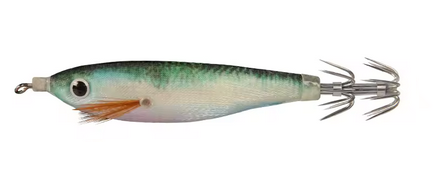
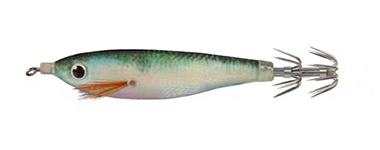
Update

diff --git a/menu/senuelos/dtd.html b/menu/senuelos/dtd.html
@@ -123,14 +123,14 @@
   <!-- GRID DE PRODUCTOS -->
   <h2 class="section-title">💱 Poteras Letoyo Similares a DTD Full Flash Glavoc</h2>
   <section class="grid-contenedor">
-      <div class="tarjeta"><a href="https://s.click.aliexpress.com/e/_Dn42Gjn"><img src="letoyo/img/poteras/letoyo-A.webp" alt="Poteras Letoyo BLACK"><h3>BLACK</h3></a></div>
-      <div class="tarjeta"><a href="https://s.click.aliexpress.com/e/_Dn42Gjn"><img src="letoyo/img/poteras/letoyo-B.webp" alt="Poteras Letoyo RED HEAD"><h3>RED HEAD</h3></a></div>
-      <div class="tarjeta"><a href="https://s.click.aliexpress.com/e/_Dn42Gjn"><img src="letoyo/img/poteras/letoyo-C.webp" alt="Poteras Letoyo GRAY"><h3>GRAY</h3></a></div>
-      <div class="tarjeta"><a href="https://s.click.aliexpress.com/e/_Dn42Gjn"><img src="letoyo/img/poteras/letoyo-D.webp" alt="Poteras Letoyo YELLOW"><h3>YELLOW</h3></a></div>
-      <div class="tarjeta"><a href="https://s.click.aliexpress.com/e/_Dn42Gjn"><img src="letoyo/img/poteras/letoyo-E.webp" alt="Poteras Letoyo RED"><h3>RED</h3></a></div>
-      <div class="tarjeta"><a href="https://s.click.aliexpress.com/e/_Dn42Gjn"><img src="letoyo/img/poteras/letoyo-F.webp" alt="Poteras Letoyo ORANGE"><h3>ORANGE</h3></a></div>
-      <div class="tarjeta"><a href="https://s.click.aliexpress.com/e/_Dn42Gjn"><img src="letoyo/img/poteras/letoyo-G.webp" alt="Poteras Letoyo GREEN"><h3>GREEN</h3></a></div>
-      <div class="tarjeta"><a href="https://s.click.aliexpress.com/e/_Dn42Gjn"><img src="letoyo/img/poteras/letoyo-H.webp" alt="Poteras Letoyo WHITE"><h3>WHITE</h3></a></div>
+      <div class="tarjeta"><a href="https://s.click.aliexpress.com/e/_Dn42Gjn"><img src="letoyo/img/poteras/letoyo-A.png" alt="Poteras Letoyo BLACK"><h3>BLACK</h3></a></div>
+      <div class="tarjeta"><a href="https://s.click.aliexpress.com/e/_Dn42Gjn"><img src="letoyo/img/poteras/letoyo-B.png" alt="Poteras Letoyo RED HEAD"><h3>RED HEAD</h3></a></div>
+      <div class="tarjeta"><a href="https://s.click.aliexpress.com/e/_Dn42Gjn"><img src="letoyo/img/poteras/letoyo-C.png" alt="Poteras Letoyo GRAY"><h3>GRAY</h3></a></div>
+      <div class="tarjeta"><a href="https://s.click.aliexpress.com/e/_Dn42Gjn"><img src="letoyo/img/poteras/letoyo-D.png" alt="Poteras Letoyo YELLOW"><h3>YELLOW</h3></a></div>
+      <div class="tarjeta"><a href="https://s.click.aliexpress.com/e/_Dn42Gjn"><img src="letoyo/img/poteras/letoyo-E.png" alt="Poteras Letoyo RED"><h3>RED</h3></a></div>
+      <div class="tarjeta"><a href="https://s.click.aliexpress.com/e/_Dn42Gjn"><img src="letoyo/img/poteras/letoyo-F.png" alt="Poteras Letoyo ORANGE"><h3>ORANGE</h3></a></div>
+      <div class="tarjeta"><a href="https://s.click.aliexpress.com/e/_Dn42Gjn"><img src="letoyo/img/poteras/letoyo-G.png" alt="Poteras Letoyo GREEN"><h3>GREEN</h3></a></div>
+      <div class="tarjeta"><a href="https://s.click.aliexpress.com/e/_Dn42Gjn"><img src="letoyo/img/poteras/letoyo-H.png" alt="Poteras Letoyo WHITE"><h3>WHITE</h3></a></div>
   </section>
 
   <!-- BOTONES DE COMPRA -->

diff --git a/menu/senuelos/letoyo.html b/menu/senuelos/letoyo.html
@@ -234,14 +234,14 @@
   <h2 class="section-title">Poteras</h2>
   <h4 align="center"> 💱Similares a DTD Full Flash Glavoc</h4>
   <section class="grid-contenedor">
-      <div class="tarjeta"><a href="https://s.click.aliexpress.com/e/_Dn42Gjn"><img src="letoyo/img/poteras/letoyo-A.webp" alt="Poteras Letoyo BLACK"><h3>BLACK</h3></a></div>
-      <div class="tarjeta"><a href="https://s.click.aliexpress.com/e/_Dn42Gjn"><img src="letoyo/img/poteras/letoyo-B.webp" alt="Poteras Letoyo RED HEAD"><h3>RED HEAD</h3></a></div>
-      <div class="tarjeta"><a href="https://s.click.aliexpress.com/e/_Dn42Gjn"><img src="letoyo/img/poteras/letoyo-C.webp" alt="Poteras Letoyo GRAY"><h3>GRAY</h3></a></div>
-      <div class="tarjeta"><a href="https://s.click.aliexpress.com/e/_Dn42Gjn"><img src="letoyo/img/poteras/letoyo-D.webp" alt="Poteras Letoyo YELLOW"><h3>YELLOW</h3></a></div>
-      <div class="tarjeta"><a href="https://s.click.aliexpress.com/e/_Dn42Gjn"><img src="letoyo/img/poteras/letoyo-E.webp" alt="Poteras Letoyo RED"><h3>RED</h3></a></div>
-      <div class="tarjeta"><a href="https://s.click.aliexpress.com/e/_Dn42Gjn"><img src="letoyo/img/poteras/letoyo-F.webp" alt="Poteras Letoyo ORANGE"><h3>ORANGE</h3></a></div>
-      <div class="tarjeta"><a href="https://s.click.aliexpress.com/e/_Dn42Gjn"><img src="letoyo/img/poteras/letoyo-G.webp" alt="Poteras Letoyo GREEN"><h3>GREEN</h3></a></div>
-      <div class="tarjeta"><a href="https://s.click.aliexpress.com/e/_Dn42Gjn"><img src="letoyo/img/poteras/letoyo-H.webp" alt="Poteras Letoyo WHITE"><h3>WHITE</h3></a></div>
+      <div class="tarjeta"><a href="https://s.click.aliexpress.com/e/_Dn42Gjn"><img src="letoyo/img/poteras/letoyo-A.png" alt="Poteras Letoyo BLACK"><h3>BLACK</h3></a></div>
+      <div class="tarjeta"><a href="https://s.click.aliexpress.com/e/_Dn42Gjn"><img src="letoyo/img/poteras/letoyo-B.png" alt="Poteras Letoyo RED HEAD"><h3>RED HEAD</h3></a></div>
+      <div class="tarjeta"><a href="https://s.click.aliexpress.com/e/_Dn42Gjn"><img src="letoyo/img/poteras/letoyo-C.png" alt="Poteras Letoyo GRAY"><h3>GRAY</h3></a></div>
+      <div class="tarjeta"><a href="https://s.click.aliexpress.com/e/_Dn42Gjn"><img src="letoyo/img/poteras/letoyo-D.png" alt="Poteras Letoyo YELLOW"><h3>YELLOW</h3></a></div>
+      <div class="tarjeta"><a href="https://s.click.aliexpress.com/e/_Dn42Gjn"><img src="letoyo/img/poteras/letoyo-E.png" alt="Poteras Letoyo RED"><h3>RED</h3></a></div>
+      <div class="tarjeta"><a href="https://s.click.aliexpress.com/e/_Dn42Gjn"><img src="letoyo/img/poteras/letoyo-F.png" alt="Poteras Letoyo ORANGE"><h3>ORANGE</h3></a></div>
+      <div class="tarjeta"><a href="https://s.click.aliexpress.com/e/_Dn42Gjn"><img src="letoyo/img/poteras/letoyo-G.png" alt="Poteras Letoyo GREEN"><h3>GREEN</h3></a></div>
+      <div class="tarjeta"><a href="https://s.click.aliexpress.com/e/_Dn42Gjn"><img src="letoyo/img/poteras/letoyo-H.png" alt="Poteras Letoyo WHITE"><h3>WHITE</h3></a></div>
   </section>
 
 <div class="comprar-contenedor">

diff --git a/menu/senuelos/kingdom.html b/menu/senuelos/kingdom.html
@@ -120,12 +120,12 @@
 
 <section class="grid-contenedor">
 
-    <div class="tarjeta"><a href="https://s.click.aliexpress.com/e/_DkokzW1"><img src="kingdom/img/KINGDOM EGI/egi-01.webp" alt="Kingdom Egi Modelo 01"><h3>Modelo 01</h3></a></div>
-    <div class="tarjeta"><a href="https://s.click.aliexpress.com/e/_DkokzW1"><img src="kingdom/img/KINGDOM EGI/egi-02.webp" alt="Kingdom Egi Modelo 02"><h3>Modelo 02</h3></a></div>
-    <div class="tarjeta"><a href="https://s.click.aliexpress.com/e/_DkokzW1"><img src="kingdom/img/KINGDOM EGI/egi-03.webp" alt="Kingdom Egi Modelo 03"><h3>Modelo 03</h3></a></div>
-    <div class="tarjeta"><a href="https://s.click.aliexpress.com/e/_DkokzW1"><img src="kingdom/img/KINGDOM EGI/egi-04.webp" alt="Kingdom Egi Modelo 04"><h3>Modelo 04</h3></a></div>
-    <div class="tarjeta"><a href="https://s.click.aliexpress.com/e/_DkokzW1"><img src="kingdom/img/KINGDOM EGI/egi-05.webp" alt="Kingdom Egi Modelo 05"><h3>Modelo 05</h3></a></div>
-    <div class="tarjeta"><a href="https://s.click.aliexpress.com/e/_DkokzW1"><img src="kingdom/img/KINGDOM EGI/egi-06.webp" alt="Kingdom Egi Modelo 06"><h3>Modelo 06</h3></a></div>
+    <div class="tarjeta"><a href="https://s.click.aliexpress.com/e/_DkokzW1"><img src="kingdom/img/KINGDOM EGI/egi-01.png" alt="Kingdom Egi Modelo 01"><h3>Modelo 01</h3></a></div>
+    <div class="tarjeta"><a href="https://s.click.aliexpress.com/e/_DkokzW1"><img src="kingdom/img/KINGDOM EGI/egi-02.png" alt="Kingdom Egi Modelo 02"><h3>Modelo 02</h3></a></div>
+    <div class="tarjeta"><a href="https://s.click.aliexpress.com/e/_DkokzW1"><img src="kingdom/img/KINGDOM EGI/egi-03.png" alt="Kingdom Egi Modelo 03"><h3>Modelo 03</h3></a></div>
+    <div class="tarjeta"><a href="https://s.click.aliexpress.com/e/_DkokzW1"><img src="kingdom/img/KINGDOM EGI/egi-04.png" alt="Kingdom Egi Modelo 04"><h3>Modelo 04</h3></a></div>
+    <div class="tarjeta"><a href="https://s.click.aliexpress.com/e/_DkokzW1"><img src="kingdom/img/KINGDOM EGI/egi-05.png" alt="Kingdom Egi Modelo 05"><h3>Modelo 05</h3></a></div>
+    <div class="tarjeta"><a href="https://s.click.aliexpress.com/e/_DkokzW1"><img src="kingdom/img/KINGDOM EGI/egi-06.png" alt="Kingdom Egi Modelo 06"><h3>Modelo 06</h3></a></div>
 </section>
 
 <div class="comprar-contenedor">

diff --git a/menu/senuelos/yamashita.html b/menu/senuelos/yamashita.html
@@ -101,6 +101,11 @@
 
 </section>
 
+<div class="comprar-contenedor">
+    <a class="btn-comprar opcion" href="https://s.click.aliexpress.com/e/_DCmkvMN" target="_blank" rel="nofollow noopener noreferrer">🛒 Comprar Opción 1</a>
+    <a class="btn-comprar opcion" href="https://s.click.aliexpress.com/e/_c3zaGPC1" target="_blank" rel="nofollow noopener noreferrer">🛒 Comprar Opción 2</a>
+</div>
+
 <footer>
     <p>© 2025 Egis Low Cost</p>
 </footer>
